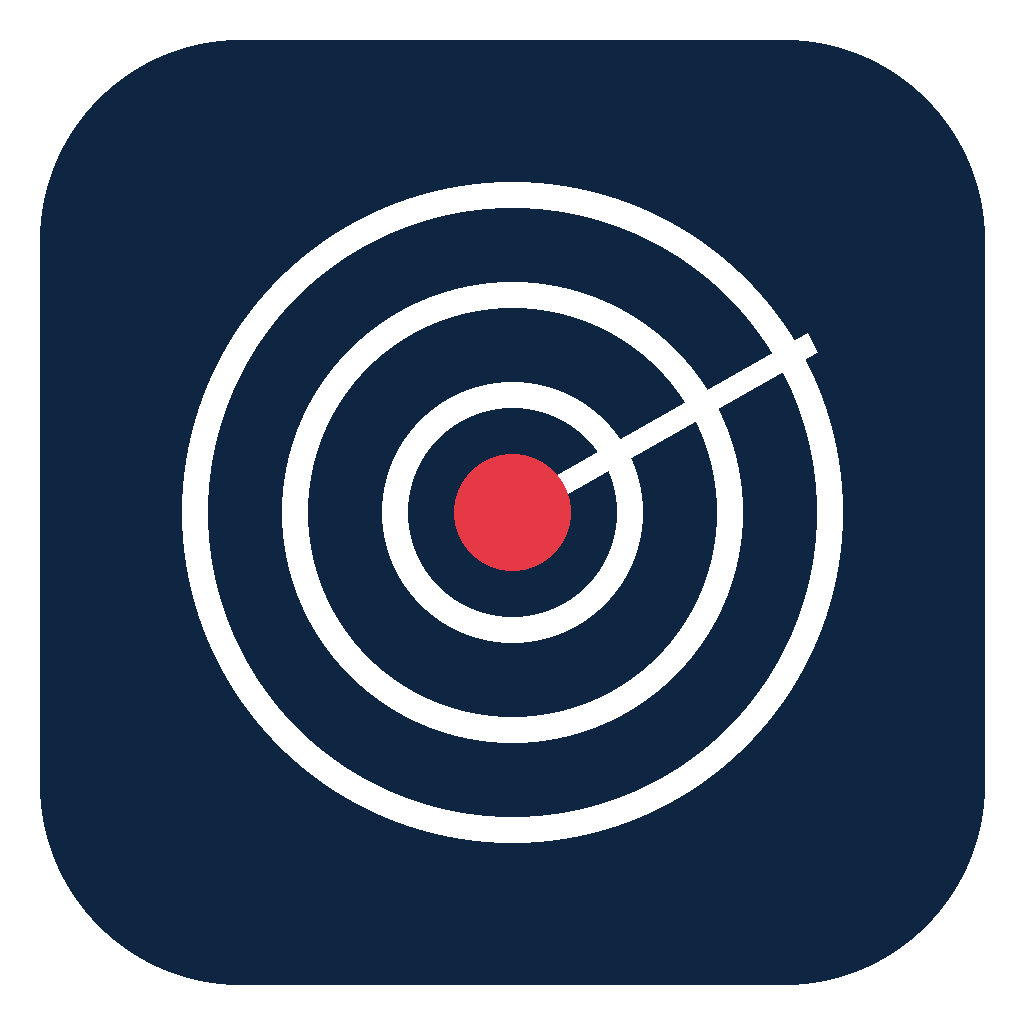
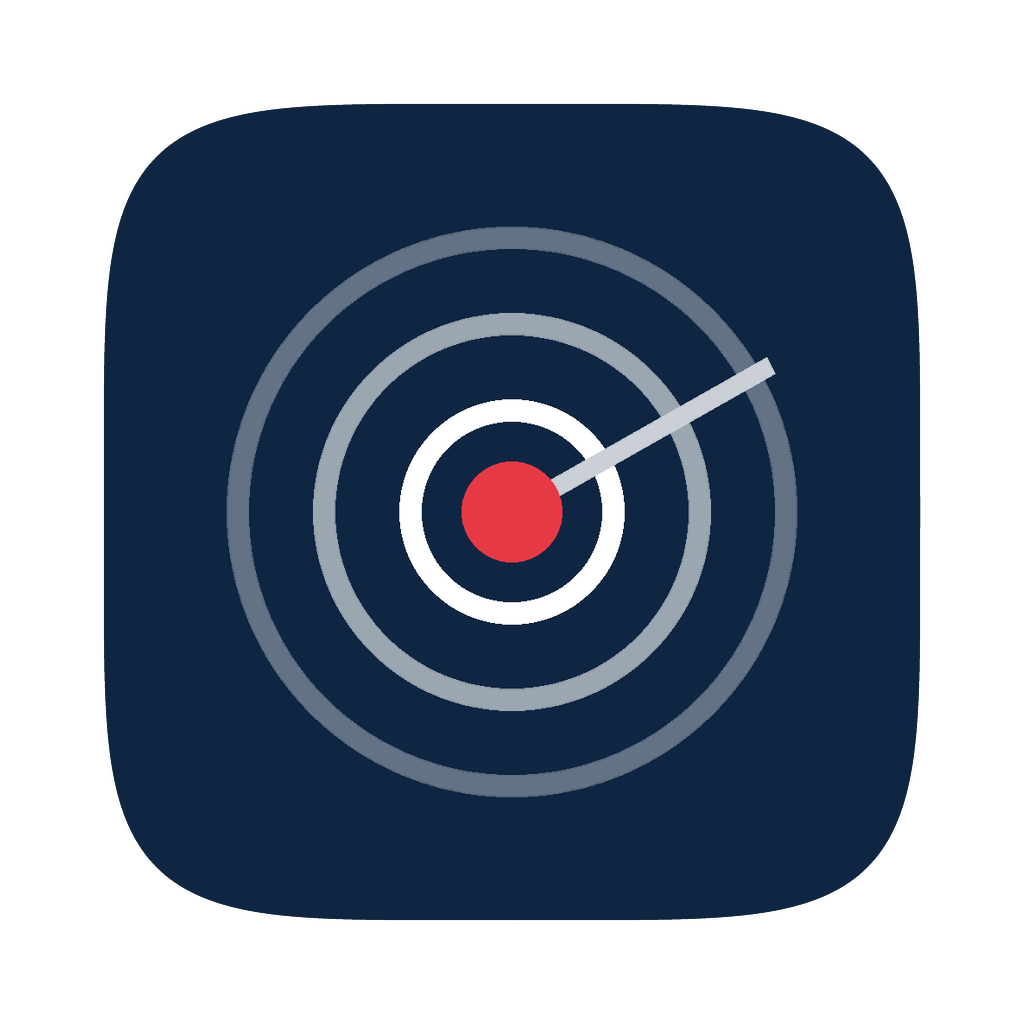
Mac: gleichbleibende Signatur (Mikrofon-Freigabe bleibt), Symbol im Apple-Raster, Ausrückzeiten nebeneinander, flüssige Fahrzeugbewegung
Claude-Session: https://claude.ai/code/session_01AQyeKtmVQCkMAJLfNH3c4m

diff --git a/src/ui/settingsView.ts b/src/ui/settingsView.ts
@@ -336,37 +336,54 @@ export function createSettingsView(container: HTMLElement, teil: "simulation" | 
     );
     const rGrid = el("div", { class: "set-grid" });
     const a = draft.ausrueck;
-    const bereich = (label: string, wert: [number, number]) => {
-      const lo = num(Math.round((wert[0] / 60) * 10) / 10, "0.5");
-      const hi = num(Math.round((wert[1] / 60) * 10) / 10, "0.5");
+    const klein = (wert: number, step: string) => {
+      const i = num(wert, step);
+      i.classList.add("ausr-zahl");
+      return i;
+    };
+    /** „0,5 – 2 min“ in einer Zeile */
+    const bereich = (wert: [number, number]) => {
+      const lo = klein(Math.round((wert[0] / 60) * 10) / 10, "0.5");
+      const hi = klein(Math.round((wert[1] / 60) * 10) / 10, "0.5");
       lo.addEventListener("change", () => (wert[0] = Math.max(0, Number(lo.value) || 0) * 60));
       hi.addEventListener("change", () => (wert[1] = Math.max(wert[0] / 60, Number(hi.value) || 0) * 60));
-      const w = el("div", { class: "row-btns" });
-      w.append(lo, el("span", { class: "muted" }, "bis"), hi, el("span", { class: "muted" }, "min"));
-      rGrid.append(el("label", {}, label), w);
+      const w = el("div", { class: "ausr-bereich" });
+      w.append(lo, el("span", { class: "muted" }, "–"), hi, el("span", { class: "muted" }, "min"));
+      return w;
     };
-    const tv = num(a.tagVon, "1");
-    const tb = num(a.tagBis, "1");
+    const tv = klein(a.tagVon, "1");
+    const tb = klein(a.tagBis, "1");
     tv.addEventListener("change", () => (a.tagVon = Math.min(23, Math.max(0, Number(tv.value) || 0))));
     tb.addEventListener("change", () => (a.tagBis = Math.min(24, Math.max(0, Number(tb.value) || 0))));
-    const tw = el("div", { class: "row-btns" });
-    tw.append(tv, el("span", { class: "muted" }, "bis"), tb, el("span", { class: "muted" }, "Uhr"));
+    const tw = el("div", { class: "ausr-bereich" });
+    tw.append(tv, el("span", { class: "muted" }, "–"), tb, el("span", { class: "muted" }, "Uhr"));
     rGrid.append(el("label", {}, "Tag (sonst Nacht)"), tw);
-    bereich("RTW/KTW – Tag", a.bodenTag);
-    bereich("RTW/KTW – Nacht", a.bodenNacht);
+    // Tabelle: je Fahrzeugart eine Zeile, Tag und Nacht nebeneinander
     a.nefTag ??= [20, 240];
     a.nefNacht ??= [90, 780];
-    bereich("NEF – Tag", a.nefTag);
-    bereich("NEF – Nacht", a.nefNacht);
-    bereich("Hubschrauber – Tag", a.nahTag);
-    bereich("Hubschrauber – Nacht", a.nahNacht);
-    const uw = num(a.unterwegs, "1");
+    const ausrTab = el("div", { class: "ausr-tab" });
+    ausrTab.append(el("span"), el("span", { class: "ausr-kopf" }, "☀ Tag"), el("span", { class: "ausr-kopf" }, "☾ Nacht"));
+    for (const [label, tag, nacht] of [
+      ["RTW / KTW", a.bodenTag, a.bodenNacht],
+      ["NEF", a.nefTag, a.nefNacht],
+      ["Hubschrauber", a.nahTag, a.nahNacht],
+    ] as [string, [number, number], [number, number]][]) {
+      ausrTab.append(el("span", { class: "ausr-art" }, label), bereich(tag), bereich(nacht));
+    }
+    const tabZeile = el("div", { class: "set-voll" });
+    tabZeile.appendChild(ausrTab);
+    const uw = klein(a.unterwegs, "1");
     uw.addEventListener("change", () => (a.unterwegs = Math.max(0, Number(uw.value) || 10)));
-    rGrid.append(el("label", {}, "Frei unterwegs (Sekunden)"), uw);
-    const bp = num(a.bereitschaftPlusMin, "1");
+    const uwW = el("div", { class: "ausr-bereich" });
+    uwW.append(uw, el("span", { class: "muted" }, "Sekunden"));
+    const bp = klein(a.bereitschaftPlusMin, "1");
     bp.addEventListener("change", () => (a.bereitschaftPlusMin = Math.max(0, Number(bp.value) || 0)));
-    rGrid.append(el("label", {}, "Bereitschaft: zusätzlich (Minuten)"), bp);
-    rSec.appendChild(rGrid);
+    const bpW = el("div", { class: "ausr-bereich" });
+    bpW.append(el("span", { class: "muted" }, "+"), bp, el("span", { class: "muted" }, "min"));
+    rSec.append(rGrid, tabZeile);
+    const rGrid2 = el("div", { class: "set-grid" });
+    rGrid2.append(el("label", {}, "Frei unterwegs"), uwW, el("label", {}, "Aus der Bereitschaft"), bpW);
+    rSec.appendChild(rGrid2);
 
     // Flugrettung
     const nSec = section(

diff --git a/src/mapLayers.ts b/src/mapLayers.ts
@@ -1,7 +1,7 @@
 /** Eigene Kartenebenen: Dienststellen, Krankenhäuser, POIs. Dazu Kontextmenü und Positionswahl. */
 import maplibregl from "maplibre-gl";
 import type { Feature as GFeature, FeatureCollection, LineString, Point } from "geojson";
-import { besatzungBei, flughoehe, personenBei } from "./sim/bewegung";
+import { anzeigeZeit, besatzungBei, flughoehe, personenBei, positionBei } from "./sim/bewegung";
 import { PARTNER_PHASE_TEXT, sim } from "./sim/engine";
 import { khKurzElement } from "./ui/khInfo";
 import { PARTNER_ANZAHL, partnerArtVonTyp, type PartnerArt } from "./sim/partner";
@@ -563,23 +563,26 @@ function daheim(fz: (typeof sim.state.fahrzeuge)[string]): boolean {
 }
 
 function vehicleFeatures(): FeatureCollection<Point> {
+  const t = anzeigeZeit();
   return collection(
-    Object.values(sim.state.fahrzeuge).filter((fz) => !daheim(fz)).map((fz) =>
-      pointFeature(fz.id, fz.lon, fz.lat, {
+    Object.values(sim.state.fahrzeuge).filter((fz) => !daheim(fz)).map((fz) => {
+      // zwischen den Simulationsschritten weiterbewegt (sonst springen die Punkte)
+      const [lon, lat] = fz.fahrt ? positionBei(fz, t) : [fz.lon, fz.lat];
+      return pointFeature(fz.id, lon, lat, {
         name: fz.funkrufname,
         color: sim.statusDef(fz.status).farbe,
         nr: fz.status === "alarmWache" || fz.status === "alarmFunk" ? "" : sim.statusDef(fz.status).nummer,
         nah: fz.kategorie === "NAH" || fz.kategorie === "ITH" ? 1 : 0,
         ein: fz.einsatzId ? 1 : 0,
-        flug: flughoehe(fz, sim.state.zeit) > 5 ? 1 : 0,
-      }),
-    ),
+        flug: flughoehe(fz, t) > 5 ? 1 : 0,
+      });
+    }),
   );
 }
 
 /** Besatzungen zu Fuß bzw. beim Patienten: ein Punkt je Besatzung (weiter weg), ein Punkt je Person (nah) */
 function besatzungFeatures(): FeatureCollection<Point> {
-  const t = sim.state.zeit;
+  const t = anzeigeZeit();
   const out: Feature[] = [];
   for (const fz of Object.values(sim.state.fahrzeuge)) {
     const b = besatzungBei(fz, t);
@@ -798,4 +801,14 @@ export function addSimLayers(
     (map.getSource("lw-routes") as maplibregl.GeoJSONSource | undefined)?.setData(routeFeatures());
   });
   map.once("remove", ausSim);
+  // Flüssige Bewegung: fahrende Fahrzeuge ca. 10× pro Sekunde neu zeichnen (nur wenn das Spiel läuft und etwas fährt)
+  const glatt = window.setInterval(() => {
+    if (!sim.state.laeuft || document.hidden) return;
+    const t = anzeigeZeit();
+    const faehrt = Object.values(sim.state.fahrzeuge).some((fz) => fz.fahrt && t < fz.fahrt.start + fz.fahrt.dauer * 1000 + 1500);
+    const geht = Object.values(sim.state.fahrzeuge).some((fz) => fz.fuss);
+    if (faehrt) (map.getSource("lw-vehicles") as maplibregl.GeoJSONSource | undefined)?.setData(vehicleFeatures());
+    if (geht) (map.getSource("lw-besatzung") as maplibregl.GeoJSONSource | undefined)?.setData(besatzungFeatures());
+  }, 100);
+  map.once("remove", () => window.clearInterval(glatt));
 }

diff --git a/src/fz3d.ts b/src/fz3d.ts
@@ -7,7 +7,7 @@
  */
 import maplibregl from "maplibre-gl";
 import { store } from "./data/store";
-import { flughoehe, personenBei, positionBei, richtungBei, rotorLaeuft } from "./sim/bewegung";
+import { anzeigeZeit, flughoehe, personenBei, positionBei, richtungBei, rotorLaeuft } from "./sim/bewegung";
 import { sim, type SimFahrzeug } from "./sim/engine";
 import { orgFarbe } from "./mapLayers";
 
@@ -307,16 +307,7 @@ export function addFahrzeug3D(map: maplibregl.Map): Fahrzeug3D {
   const richtungMerk = new Map<string, number>();
   const farbeMerk = new Map<string, [number, number, number]>();
   // Zwischen zwei Simulationsschritten weiterrechnen (flüssige Bewegung)
-  let simZeit = sim.state.zeit;
-  let simReal = performance.now();
-  const ausSim = sim.onChange(() => {
-    if (sim.state.zeit !== simZeit) {
-      simZeit = sim.state.zeit;
-      simReal = performance.now();
-    }
-  });
-  const jetzt = () => (sim.state.laeuft ? simZeit + Math.min(1500, performance.now() - simReal) * sim.state.tempo : simZeit);
-  map.once("remove", ausSim);
+  const jetzt = anzeigeZeit;
 
   const sichtbar = () => mode3d && gewuenscht && map.getZoom() >= ZOOM_FLUG;
   /** zuletzt gezeichnete Bildschirmpositionen (Pixel) */

diff --git a/src/sim/bewegung.ts b/src/sim/bewegung.ts
@@ -2,7 +2,32 @@
  * Bewegung für die Darstellung: Position, Fahrtrichtung und Flughöhe zu einem beliebigen
  * Zeitpunkt (aus der Fahrt berechnet, damit 3D-Modelle flüssig fahren – auch im Multiplayer).
  */
-import { fliegt, type SimFahrzeug } from "./engine";
+import { fliegt, sim, type SimFahrzeug } from "./engine";
+
+// Spielzeit zwischen zwei Simulationsschritten weiterrechnen (flüssige Bewegung, auch im Multiplayer,
+// wo der Zustand nur zweimal pro Sekunde ankommt)
+let simZeit = 0;
+let simReal = 0;
+let angebunden = false;
+/** Geschätzte aktuelle Spielzeit (ms), auch zwischen den Simulationsschritten */
+export function anzeigeZeit(): number {
+  if (!angebunden) {
+    angebunden = true;
+    simZeit = sim.state.zeit;
+    simReal = performance.now();
+    sim.onChange(() => {
+      if (sim.state.zeit !== simZeit) {
+        simZeit = sim.state.zeit;
+        simReal = performance.now();
+      }
+    });
+  }
+  if (sim.state.zeit !== simZeit) {
+    simZeit = sim.state.zeit;
+    simReal = performance.now();
+  }
+  return sim.state.laeuft ? simZeit + Math.min(1500, performance.now() - simReal) * sim.state.tempo : simZeit;
+}
 
 const FLUGHOEHE = 300;
 const STEIGEN_S = 45;

diff --git a/src/style.css b/src/style.css
@@ -3446,3 +3446,16 @@ input[type="color"] {
   color: var(--text);
   font-size: 12px;
 }
+
+/* Ausrückzeiten: Tag und Nacht nebeneinander */
+.ausr-tab {
+  display: grid;
+  grid-template-columns: max-content max-content max-content;
+  gap: 6px 18px;
+  align-items: center;
+  margin: 6px 0 10px;
+}
+.ausr-kopf { font-size: 12px; font-weight: 600; color: var(--text-dim); }
+.ausr-art { font-weight: 500; }
+.ausr-bereich { display: inline-flex; align-items: center; gap: 6px; white-space: nowrap; }
+input.ausr-zahl { width: 64px !important; min-width: 0; }

diff --git a/tools/macos_signcert.py b/tools/macos_signcert.py
@@ -1,0 +1,119 @@
+#!/usr/bin/env python3
+"""
+Gleichbleibendes Signier-Zertifikat für die Mac-App (selbst ausgestellt, ohne Apple-Konto).
+
+Warum: Mit der bisherigen Ad-hoc-Signatur sieht macOS jedes Update als neue App und fragt das
+Mikrofon jedes Mal neu ab. Mit immer demselben Zertifikat bleibt die Freigabe erhalten.
+
+Wie: Schlüssel und Zertifikat werden bei jedem Bau aus einem vorhandenen GitHub-Secret abgeleitet
+(Umgebungsvariable SEED) – immer identisch, ohne dass ein Schlüssel gespeichert oder weitergegeben wird.
+RSA-Primzahlen aus einem SHA-512-Zähler, Zertifikat mit festen Daten und deterministischer Signatur
+(PKCS#1 v1.5) – dadurch Byte für Byte gleich.
+
+Aufruf: SEED=... python3 macos_signcert.py ausgabe.p12 passwort
+"""
+from __future__ import annotations
+
+import datetime
+import hashlib
+import os
+import sys
+
+from cryptography import x509
+from cryptography.hazmat.primitives import hashes, serialization
+from cryptography.hazmat.primitives.asymmetric import padding, rsa
+from cryptography.hazmat.primitives.serialization import pkcs12
+from cryptography.x509.oid import ExtendedKeyUsageOID, NameOID
+
+NAME = "LeitWerk Codesign"
+E = 65537
+
+
+def strom(seed: bytes):
+    n = 0
+    while True:
+        yield hashlib.sha512(seed + n.to_bytes(8, "big")).digest()
+        n += 1
+
+
+def ist_prim(n: int) -> bool:
+    if n < 2:
+        return False
+    for p in (2, 3, 5, 7, 11, 13, 17, 19, 23, 29, 31, 37):
+        if n % p == 0:
+            return n == p
+    d, r = n - 1, 0
+    while d % 2 == 0:
+        d //= 2
+        r += 1
+    # feste Basen: deterministisch, Fehlerwahrscheinlichkeit vernachlässigbar
+    for a in (2, 3, 5, 7, 11, 13, 17, 19, 23, 29, 31, 37, 41, 43, 47, 53, 59, 61, 67, 71, 73, 79, 83, 89, 97):
+        x = pow(a, d, n)
+        if x in (1, n - 1):
+            continue
+        for _ in range(r - 1):
+            x = pow(x, 2, n)
+            if x == n - 1:
+                break
+        else:
+            return False
+    return True
+
+
+def primzahl(quelle, bits: int) -> int:
+    while True:
+        b = b"".join(next(quelle) for _ in range(bits // 512))
+        k = int.from_bytes(b, "big") | (3 << (bits - 2)) | 1
+        if ist_prim(k) and (k - 1) % E != 0:
+            return k
+
+
+def main() -> None:
+    seed = os.environ.get("SEED", "").encode()
+    if len(seed) < 32:
+        sys.exit("SEED fehlt oder ist zu kurz")
+    q = strom(hashlib.sha512(b"leitwerk-macos-codesign-v1" + seed).digest())
+    p = primzahl(q, 1024)
+    r = primzahl(q, 1024)
+    if p == r:
+        sys.exit("gleiche Primzahlen")
+    n = p * r
+    phi = (p - 1) * (r - 1)
+    d = pow(E, -1, phi)
+    key = rsa.RSAPrivateNumbers(
+        p=p, q=r, d=d, dmp1=rsa.rsa_crt_dmp1(d, p), dmq1=rsa.rsa_crt_dmq1(d, r), iqmp=rsa.rsa_crt_iqmp(p, r),
+        public_numbers=rsa.RSAPublicNumbers(E, n),
+    ).private_key()
+    name = x509.Name([x509.NameAttribute(NameOID.COMMON_NAME, NAME), x509.NameAttribute(NameOID.ORGANIZATION_NAME, "LeitWerk")])
+    cert = (
+        x509.CertificateBuilder()
+        .subject_name(name)
+        .issuer_name(name)
+        .public_key(key.public_key())
+        .serial_number(1)
+        .not_valid_before(datetime.datetime(2026, 1, 1, tzinfo=datetime.timezone.utc))
+        .not_valid_after(datetime.datetime(2046, 1, 1, tzinfo=datetime.timezone.utc))
+        .add_extension(x509.BasicConstraints(ca=False, path_length=None), critical=True)
+        .add_extension(x509.KeyUsage(True, False, False, False, False, False, False, False, False), critical=True)
+        .add_extension(x509.ExtendedKeyUsage([ExtendedKeyUsageOID.CODE_SIGNING]), critical=True)
+        .sign(key, hashes.SHA256())
+    )
+    # Kontrolle: Signatur ist deterministisch (PKCS#1 v1.5)
+    key.public_key().verify(cert.signature, cert.tbs_certificate_bytes, padding.PKCS1v15(), hashes.SHA256())
+    pw = sys.argv[2].encode()
+    enc = (
+        serialization.PrivateFormat.PKCS12.encryption_builder()
+        .kdf_rounds(50000)
+        .key_cert_algorithm(pkcs12.PBES.PBESv1SHA1And3KeyTripleDESCBC)
+        .hmac_hash(hashes.SHA1())
+        .build(pw)
+    )
+    with open(sys.argv[1], "wb") as f:
+        f.write(pkcs12.serialize_key_and_certificates(NAME.encode(), key, cert, None, enc))
+    with open(sys.argv[1] + ".pem", "wb") as f:
+        f.write(cert.public_bytes(serialization.Encoding.PEM))
+    print("Zertifikat:", hashlib.sha1(cert.public_bytes(serialization.Encoding.DER)).hexdigest())
+
+
+if __name__ == "__main__":
+    main()
